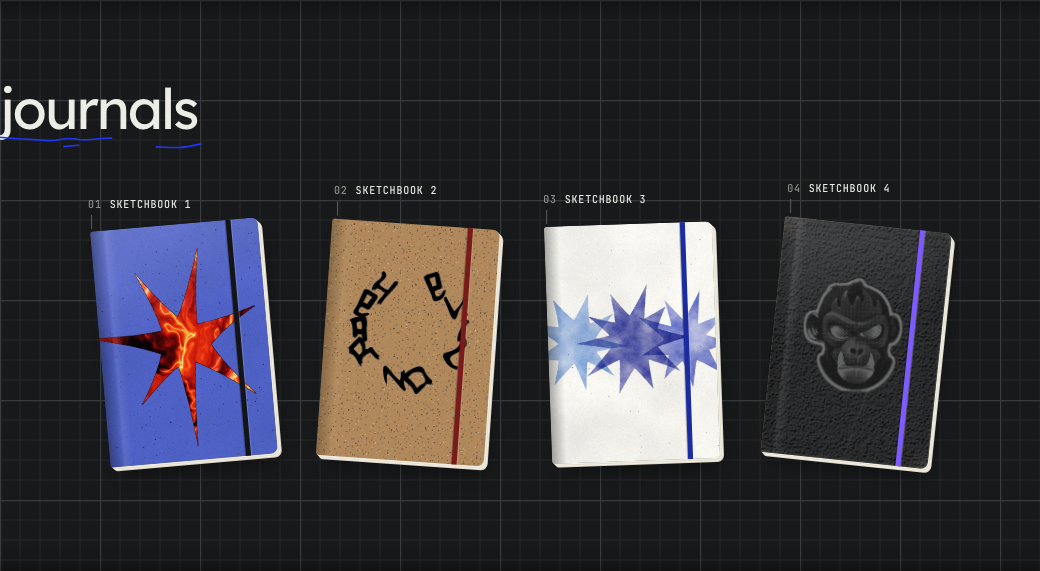
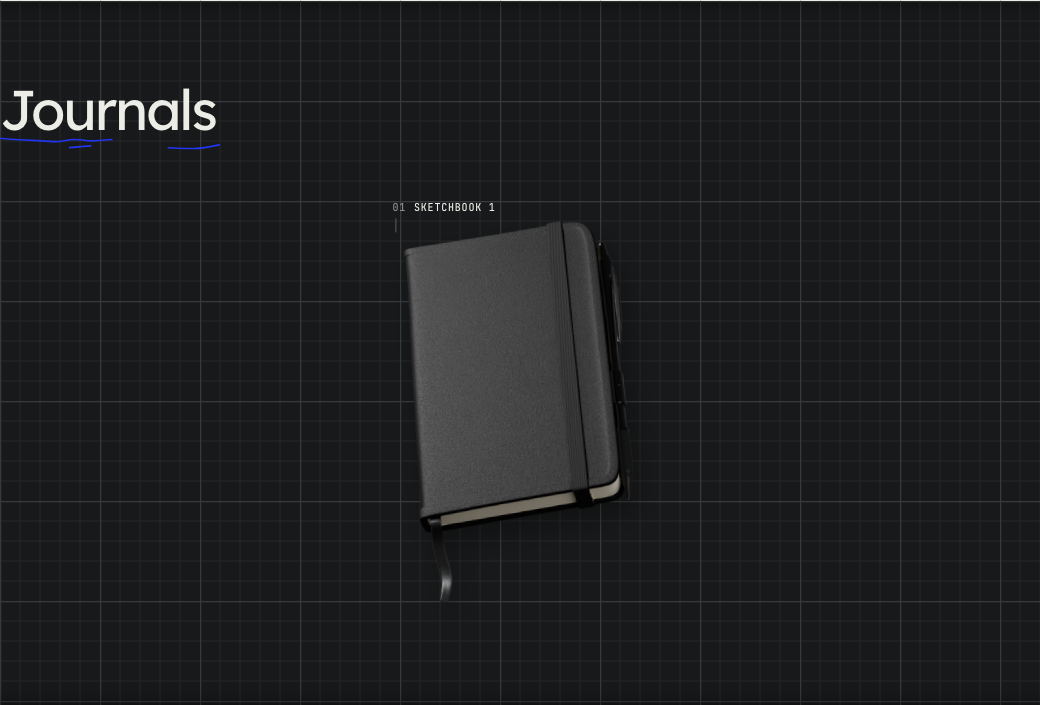
Journals: a mockup photo can stand in for the drawn book; shelf shows one sketchbook
Claude-Session: https://claude.ai/code/session_01UGk9AAc2om8mhwEAC33PCo

diff --git a/cms/tests/projects-journals.spec.ts b/cms/tests/projects-journals.spec.ts
@@ -2,6 +2,7 @@ import { expect, test, type Page } from "@playwright/test";
 import { mkdirSync } from "node:fs";
 import { dirname, resolve } from "node:path";
 import { fileURLToPath } from "node:url";
+import { homeBlock } from "./content";
 import { draftSite, editorPassword, onBoard, resetDraft, signIn } from "./helpers";
 
 /**
@@ -195,34 +196,37 @@ test.describe("resizable project pieces", () => {
   });
 });
 
-test.describe("sketchbook cover materials", () => {
+test.describe("sketchbook covers", () => {
   test.beforeAll(() => mkdirSync(shots, { recursive: true }));
+  // Follows the published shelf: a mockup photo stands in for the drawn book; otherwise the material shows.
+  const shown = (homeBlock("AoostJournals").journals as { hidden?: boolean; mockup?: string; material?: string; sticker?: string }[]).filter((j) => !j.hidden);
 
   for (const width of [1440, 390]) {
-    test(`kraft and leather covers on the homepage at ${width}`, async ({ page }) => {
+    test(`shelf covers on the homepage at ${width}`, async ({ page }) => {
       await page.setViewportSize({ width, height: 900 });
       await page.context().route(/supabase\.co/, (route) => (route.request().method() === "GET" && !route.request().url().includes("/visits") ? route.continue() : route.abort()));
       await page.goto("/");
       const shelf = page.locator("#jrShelf");
-      await expect(shelf.locator(".jr")).toHaveCount(4);
+      await expect(shelf.locator(".jr")).toHaveCount(shown.length);
       const covers = shelf.locator(".jr-cv");
-      await expect(covers.nth(0)).not.toHaveClass(/cv-/);
-      await expect(covers.nth(1)).toHaveClass(/cv-kraft/);
-      await expect(covers.nth(2)).not.toHaveClass(/cv-/);
-      await expect(covers.nth(3)).toHaveClass(/cv-leather/);
-      // Band and sticker are still there.
-      await expect(covers.nth(1).locator(".jr-band")).toHaveCount(1);
-      await expect(covers.nth(3).locator("img.st")).toHaveCount(1);
+      for (const [k, j] of shown.entries()) {
+        const cv = covers.nth(k);
+        if (j.mockup) {
+          await expect(cv).toHaveClass(/jr-mock/);
+          await expect(cv.locator("img")).toHaveAttribute("src", j.mockup);
+          await expect.poll(() => cv.locator("img").evaluate((m: HTMLImageElement) => m.complete && m.naturalWidth > 0)).toBe(true);
+          continue;
+        }
+        const mat = j.material === "kraft" || j.material === "leather" ? j.material : "";
+        if (mat) await expect(cv).toHaveClass(new RegExp(`cv-${mat}`));
+        else await expect(cv).not.toHaveClass(/cv-/);
+        await expect(cv.locator(".jr-band")).toHaveCount(1);
+        if (j.sticker) await expect(cv.locator("img.st")).toHaveCount(1);
+      }
       const section = page.locator(".journals");
       await section.scrollIntoViewIfNeeded();
       await page.waitForTimeout(800);
       await section.screenshot({ path: resolve(shots, `sketchbooks-${width}.png`) });
-      if (width === 1440) {
-        // The leather catches the light on hover.
-        await shelf.locator(".jr").nth(3).hover();
-        await page.waitForTimeout(1100);
-        await shelf.locator(".jr").nth(3).screenshot({ path: resolve(shots, "leather-hover-1440.png") });
-      }
     });
   }
 });

diff --git a/cms/src/components/aoost/runtime/journals.js b/cms/src/components/aoost/runtime/journals.js
@@ -37,7 +37,7 @@ function fromFields(j,n){
   if(o.ribbon)props.ribbon=o.ribbon;if(o.wear&&o.wear!=='none')props.wear=o.wear;if(o.titleStamp)props.title_stamp=true;if(o.coverText==='light')props.cover_text='light';if(o.sound)props.sound=true;if(o.backCover)props.back_cover_url=o.backCover;
   const cov=Array.isArray(j.coverItems)?j.coverItems:[],side=back=>cov.filter(i=>((isObj(i.props)?i.props:{}).side==='back')===back);
   const mat=j.material==='kraft'||j.material==='leather'?j.material:'';
-  return {id:j.id||('j'+n),title:j.title||'',year:j.year||'',cover:j.cover||null,cbg:j.coverColor||(mat==='kraft'?'#A47A4E':'#222'),mat,sticker:j.sticker||null,band:j.band||'#141516',dark:!!j.dark,r:+j.tilt||0,link:j.link||'',
+  return {id:j.id||('j'+n),title:j.title||'',year:j.year||'',cover:j.cover||null,mockup:j.mockup||null,cbg:j.coverColor||(mat==='kraft'?'#A47A4E':'#222'),mat,sticker:j.sticker||null,band:j.band||'#141516',dark:!!j.dark,r:+j.tilt||0,link:j.link||'',
     props,citems:side(false),bitems:side(true),pages:all};}
 
 export function initJournals(){
@@ -116,7 +116,7 @@ const ribbon=j=>{const r=(j.props||{}).ribbon;return r&&r!=='none'?`<span class=
 
 function shelfButton(j,i){const b=document.createElement('button');b.type='button';b.className='jr';b.style.setProperty('--r',(j.r||0)+'deg');
   b.setAttribute('aria-label',`Open journal: ${j.title}`);
-  b.style.setProperty('--i',i);b.innerHTML=`${ribbon(j)}<span class="jr-cv cvx${matCls(j)}" style="${coverStyle(j)}">${coverInner(j)}</span><span class="jr-n">0${i+1}</span><span class="jr-cap"><i>0${i+1}</i><b>${esc(j.title)}</b><span>${j.pages.length} pages · ${j.year||''}</span></span>`;
+  b.style.setProperty('--i',i);if(j.mockup){b.classList.add('jr-hasmock');b.innerHTML=`<span class="jr-cv jr-mock"><img src="${esc(j.mockup)}" alt="" draggable="false"></span><span class="jr-n">0${i+1}</span><span class="jr-cap"><i>0${i+1}</i><b>${esc(j.title)}</b><span>${j.pages.length} pages · ${j.year||''}</span></span>`;}else b.innerHTML=`${ribbon(j)}<span class="jr-cv cvx${matCls(j)}" style="${coverStyle(j)}">${coverInner(j)}</span><span class="jr-n">0${i+1}</span><span class="jr-cap"><i>0${i+1}</i><b>${esc(j.title)}</b><span>${j.pages.length} pages · ${j.year||''}</span></span>`;
   const l=b.querySelector('.it-l');if(l){fillLayer(l,j.citems);l.querySelectorAll('[data-src]').forEach(m=>{m.src=m.dataset.src;if(m.tagName==='VIDEO'){m.autoplay=true;m.play&&m.play().catch(()=>{});}});}
   b.addEventListener('click',()=>PREVIEW?openJ(j,b):openRoom(j,b));return b;}
 JOURNALS.forEach((j,i)=>shelf.appendChild(shelfButton(j,i)));

diff --git a/cms/src/components/aoost/AoostJournals/AoostJournals.tsx b/cms/src/components/aoost/AoostJournals/AoostJournals.tsx
@@ -31,6 +31,8 @@ export const AoostJournal = z.object({
   year: z.string().optional(),
   /** Cover image. Without one the cover is the plain cover colour. */
   cover: z.string().optional(),
+  /** A photo of the book (transparent PNG/WebP). When set it stands on the shelf in place of the drawn book. */
+  mockup: z.string().optional(),
   /** Framing of the cover image, per screen size. */
   frame: ResponsiveFrameFit.optional(),
   coverColor: z.string().optional(),
@@ -85,6 +87,22 @@ function ShelfBook({ j, i }: { j: AoostJournal; i: number }) {
   const mat = materialOf(j);
   const base = j.coverColor || (mat === "kraft" ? KRAFT_BROWN : "#222");
   const cover = { "--cbg": j.cover ? `url('${j.cover.replace(/'/g, "%27")}') center/cover no-repeat,${base}` : base, "--tone": "#333", "--band": j.band || "#141516" } as CSSProperties;
+  if (j.mockup)
+    return (
+      <button type="button" className="jr jr-hasmock" aria-label={`Open journal: ${j.title}`} style={{ "--r": `${j.tilt ?? 0}deg`, "--i": i } as CSSProperties}>
+        <span className="jr-cv jr-mock">
+          <img src={j.mockup} alt="" draggable={false} />
+        </span>
+        <span className="jr-n">0{i + 1}</span>
+        <span className="jr-cap">
+          <i>0{i + 1}</i>
+          <b>{j.title}</b>
+          <span>
+            {pageCount(j)} pages · {j.year ?? ""}
+          </span>
+        </span>
+      </button>
+    );
   return (
     <button type="button" className="jr" aria-label={`Open journal: ${j.title}`} style={{ "--r": `${j.tilt ?? 0}deg`, "--i": i } as CSSProperties}>
       {o.ribbon && o.ribbon !== "none" ? <span className="jrib" style={{ "--rib": o.ribbon } as CSSProperties} /> : null}
@@ -116,7 +134,7 @@ export const AoostJournals = defineComponent<AoostJournalsContent>({
   band: matBand,
   schema: AoostJournalsContent,
   frames: (content) =>
-    shownSlots(content.journals, (j) => !j.hidden, (j, i, k) => (j.cover ? { path: ["journals", i], label: `${j.title || `Journal ${k}`} cover`, kind: "bg", selector: `.jr-shelf>.jr:nth-child(${k})>.jr-cv`, src: j.cover } : null)),
+    shownSlots(content.journals, (j) => !j.hidden, (j, i, k) => (j.cover && !j.mockup ? { path: ["journals", i], label: `${j.title || `Journal ${k}`} cover`, kind: "bg", selector: `.jr-shelf>.jr:nth-child(${k})>.jr-cv`, src: j.cover } : null)),
   defaults: {
     content: {
       mat: "light",

diff --git a/cms/tests/sketchbook-room.spec.ts b/cms/tests/sketchbook-room.spec.ts
@@ -2,6 +2,7 @@ import { expect, test, type Page } from "@playwright/test";
 import { mkdirSync } from "node:fs";
 import { dirname, resolve } from "node:path";
 import { fileURLToPath } from "node:url";
+import { homeBlock } from "./content";
 
 /**
  * Inside a sketchbook (SHARE-VIEWER.md §3): the book opens into the dark room as a two-page spread on
@@ -75,9 +76,13 @@ test.describe("sketchbook: spread in the dark room", () => {
   test("a material cover shows round the spread, and reduced motion crossfades", async ({ page }) => {
     await page.setViewportSize({ width: 1440, height: 900 });
     await page.emulateMedia({ reducedMotion: "reduce" });
-    const room = await openBook(page, 2);
-    await expect(room.locator(".jvr-book")).toHaveClass(/cv-kraft/);
-    await expect(room.locator(".jvr-sw")).toHaveClass(/cv-kraft/);
+    const shown = (homeBlock("AoostJournals").journals as { hidden?: boolean; material?: string }[]).filter((j) => !j.hidden);
+    const k = shown.findIndex((j) => j.material === "kraft" || j.material === "leather");
+    test.skip(k < 0, "no material cover on the published shelf");
+    const mat = shown[k]!.material!;
+    const room = await openBook(page, k + 1);
+    await expect(room.locator(".jvr-book")).toHaveClass(new RegExp(`cv-${mat}`));
+    await expect(room.locator(".jvr-sw")).toHaveClass(new RegExp(`cv-${mat}`));
     await page.keyboard.press("ArrowRight");
     await expect(room.locator(".jvr-ct")).toHaveText(/^2/);
     await expect(room.locator(".jvr-leaf")).toHaveCount(0);

diff --git a/cms/tests/home.spec.ts b/cms/tests/home.spec.ts
@@ -127,10 +127,11 @@ test.describe("homepage: the original page, from aoost blocks", () => {
 
   test("a journal opens in the dark room, turns spreads and closes", async ({ page }) => {
     const { journals, sub } = homeBlock("AoostJournals");
-    const first = journals[0];
+    const shown = journals.filter((j: { hidden?: boolean }) => !j.hidden);
+    const first = shown[0];
     await home(page);
-    await expect(page.locator("#jrShelf .jr")).toHaveCount(journals.length);
-    await expect(page.locator("#jrShelf .jr .jr-lbl")).toHaveText(journals.map((j: { title: string }) => j.title));
+    await expect(page.locator("#jrShelf .jr")).toHaveCount(shown.length);
+    await expect(page.locator("#jrShelf .jr .jr-cap b")).toHaveText(shown.map((j: { title: string }) => j.title));
     await expect(page.locator(".jr-sub")).toHaveCount(sub?.trim() ? 1 : 0);
     await page.locator("#jrShelf .jr").first().scrollIntoViewIfNeeded();
     await page.locator("#jrShelf .jr").first().click();

diff --git a/cms/src/components/aoost/AoostJournals/AoostJournals.styles.ts b/cms/src/components/aoost/AoostJournals/AoostJournals.styles.ts
@@ -18,6 +18,10 @@ export const css = `
 .ao .jr-coil,.ao .jr-tip,.ao .jr-deb,.ao .jr-stk{display:none}
 .ao .jr-n{position:absolute;right:-6px;top:-10px;font:500 10px/1 var(--mono);color:var(--ink-2)}
 .ao .jr-shelf{padding-top:64px;row-gap:64px}
+.ao .jr.jr-hasmock{--w:clamp(150px,20vw,220px);aspect-ratio:731/1228}
+.ao .jr-cv.jr-mock{background:none;box-shadow:none;border-radius:0;overflow:visible}
+.ao .jr-cv.jr-mock::before{display:none}
+.ao .jr-mock img{position:absolute;inset:0;width:100%;height:100%;object-fit:contain;pointer-events:none;filter:drop-shadow(6px 14px 14px rgba(0,0,0,.32))}
 .ao .jr-n,.ao .cvx .jr-lbl{display:none}
 .ao .jr-cap{display:flex;gap:8px;align-items:baseline;position:absolute;z-index:5;left:0;bottom:calc(100% + 22px);white-space:nowrap;pointer-events:none;
   font:500 10px/1 var(--mono);letter-spacing:.08em;text-transform:uppercase;color:#8E918C;transform-origin:left bottom;transform:rotate(calc(-1 * var(--r,0deg)))}

diff --git a/cms/src/components/aoost/AoostJournals/AoostJournals.puck.tsx b/cms/src/components/aoost/AoostJournals/AoostJournals.puck.tsx
@@ -12,6 +12,7 @@ export const fields: Fields<AoostJournalsContent> = {
     arrayFields: {
       title: { type: "text", label: "Title" },
       year: { type: "text", label: "Year" },
+      mockup: mediaField("Mockup photo (replaces the drawn book on the shelf)", "image"),
       cover: mediaField("Cover image (empty = plain colour)", "image", { framed: true }),
       coverColor: hexField("Cover colour"),
       material: {
